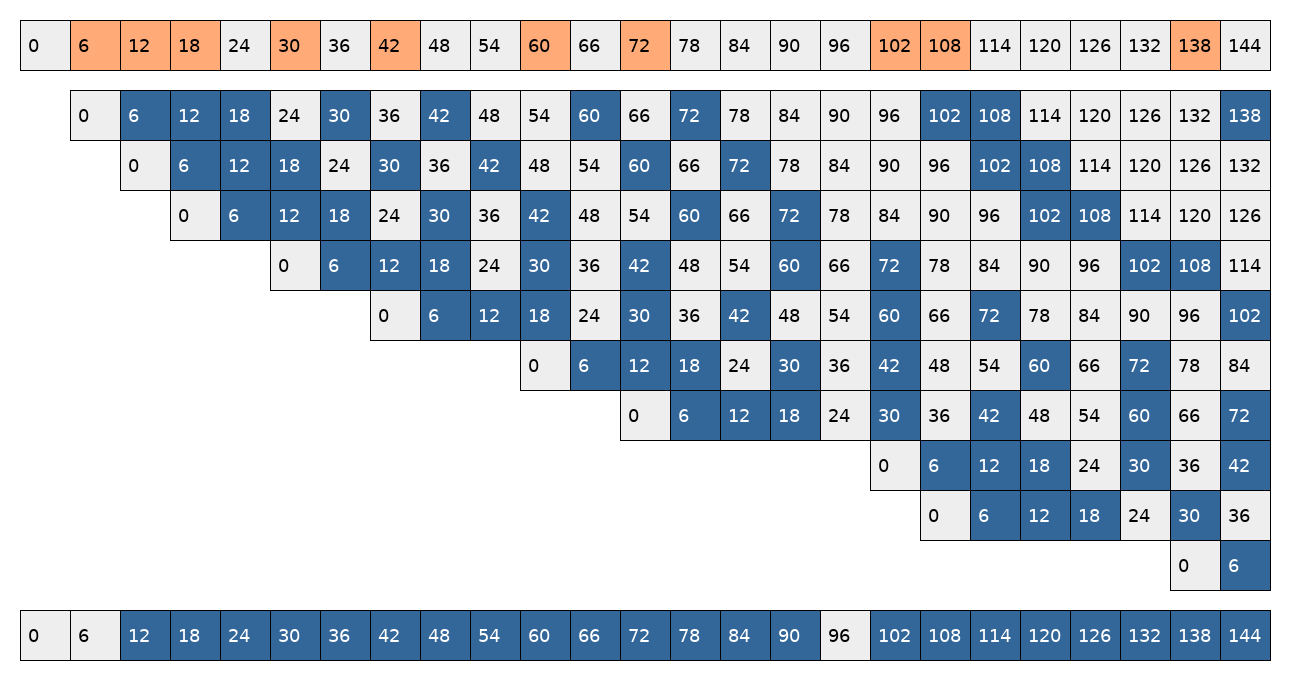
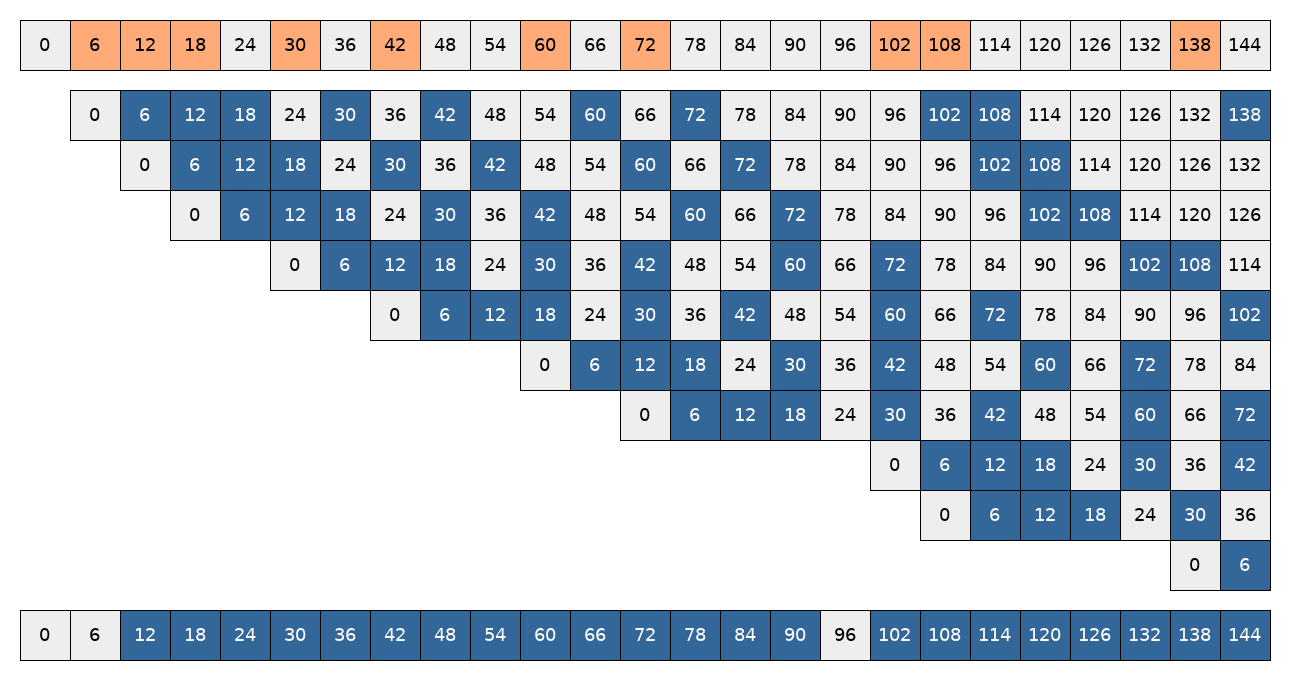
use anchor

diff --git a/dubner/draw.py b/dubner/draw.py
@@ -12,8 +12,8 @@ def draw_bitarray(a, size, colors):
         dr.rectangle([(i * size, 0), ((i+1) * size, size)],
                      fill=colors[v],
                      outline="black")
-        dr.text(((i + 0.15) * size, 0.3 * size),
-                str(6 * i),
+        dr.text(((i + 0.5) * size, 0.5 * size),
+                str(6 * i), anchor='mm',
                 fill=colors[v + 2], font=font)
     return im
 
